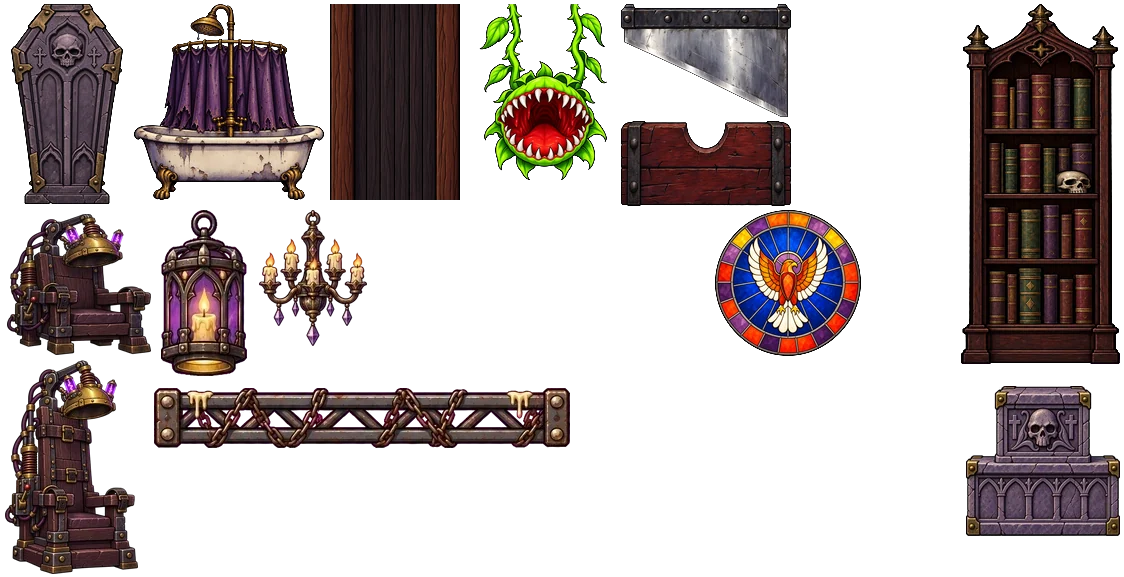
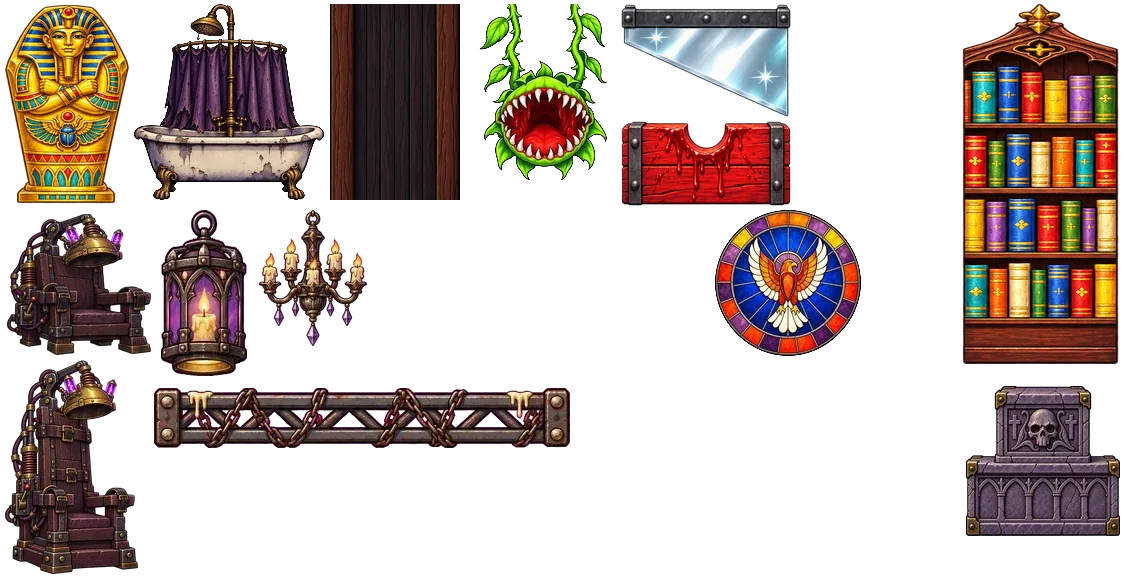
Release 0.13.8 with clearer Creepshow props

Changed region(s): [[0.8407, 0.0, 0.9964, 0.6551], [0.5294, 0.0, 0.7162, 0.3744], [0.0, 0.0, 0.1246, 0.3744]]

diff --git a/lib/features/games/ui/stage_runner_screen.dart b/lib/features/games/ui/stage_runner_screen.dart
@@ -1935,7 +1935,7 @@ class _StagePainter extends CustomPainter {
       case ObstacleKind.flat:
         _flat(canvas, a, rect);
       case ObstacleKind.border when a.ownScenery:
-        _guillotineTop(canvas, a, rect, (o.anchor - o.bottom) * s);
+        _guillotineTop(canvas, a, rect, (o.anchor - o.bottom) * s, s);
       case ObstacleKind.border:
         _velvetPiece(canvas, rect, s, a.border);
       case ObstacleKind.lamp:
@@ -2176,13 +2176,20 @@ class _StagePainter extends CustomPainter {
   /// fly loft and only as far as the back of the blade, so that the blade's
   /// slant shows; the uprights on past it over the [gap] below; and at the
   /// lower edge the blade, the same size at any height of the gap.
-  void _guillotineTop(Canvas canvas, RunnerArt a, Rect rect, double gap) {
+  void _guillotineTop(
+    Canvas canvas,
+    RunnerArt a,
+    Rect rect,
+    double gap,
+    double s,
+  ) {
     final width = rect.width * _guillotineWidth;
     final left = rect.center.dx - width / 2;
     final cell = RunnerSprite.guillotine;
     final blade = RunnerSprite.guillotineBlade;
     final height = width * blade.height / blade.width;
     final back = rect.bottom - height * .75;
+    const upright = RunnerSprite.guillotineUpright;
     if (back > rect.top) {
       _sprite(
         canvas,
@@ -2190,8 +2197,22 @@ class _StagePainter extends CustomPainter {
         cell,
         Rect.fromLTRB(left, rect.top, left + width, back),
       );
+      // The backdrop's border hangs above the blade, between the timber
+      // uprights. The blade is drawn last, over the fringe.
+      if (a.border != null) {
+        _velvetPiece(
+          canvas,
+          Rect.fromLTRB(
+            left + width * upright,
+            rect.top,
+            left + width * (1 - upright),
+            back,
+          ),
+          s,
+          a.border,
+        );
+      }
     }
-    const upright = RunnerSprite.guillotineUpright;
     for (final side in [0.0, 1 - upright]) {
       canvas.drawImageRect(
         a.imageOf(cell),

diff --git a/test/stage_runner_test.dart b/test/stage_runner_test.dart
@@ -1226,6 +1226,42 @@ void main() {
       expect(drawn.places[i].bottom, closeTo(floor * s, 1e-6));
     });
 
+    testWidgets('the coloured border stays above the guillotine blade', (
+      tester,
+    ) async {
+      final (own, _, set) = await arts(tester);
+      const lilac = Color(0xFFD9B8FF);
+      final dressed = own.dressed(
+        obstacles: set,
+        ownScenery: true,
+        border: lilac,
+      );
+      for (final center in [.4, .5, .6]) {
+        final parts = gapAt(center, .32);
+        final drawn = paint(dressed, set, parts);
+        final borders = drawn.rects
+            .where((r) => r.$2.toARGB32() == lilac.toARGB32())
+            .toList();
+        expect(borders, hasLength(1));
+        final border = borders.single.$1;
+        final blade = drawn
+            .places[drawn.cells.indexOf(RunnerSprite.guillotineBlade.rect)];
+        expect(border.top, parts.first.top * s);
+        expect(border.left, greaterThan(blade.left));
+        expect(border.right, lessThan(blade.right));
+        expect(border.bottom, lessThan(blade.bottom));
+        expect(border.bottom, lessThan(parts.last.top * s));
+      }
+      expect(
+        paint(
+          own,
+          set,
+          gapAt(.5, .32),
+        ).rects.any((r) => r.$2.toARGB32() == lilac.toARGB32()),
+        isFalse,
+      );
+    });
+
     test('the course marks its gaps and nothing else', () {
       final game = StageRunner(random: Random(7))..invincible = true;
       var gaps = 0;
@@ -3536,6 +3572,10 @@ class _DrawnCells implements Canvas {
 
   /// Where each of [cells] went.
   final places = <Rect>[];
+  final rects = <(Rect, Color)>[];
+
+  @override
+  void drawRect(Rect rect, Paint paint) => rects.add((rect, paint.color));
 
   @override
   void drawImageRect(ui.Image image, Rect src, Rect dst, Paint paint) {

diff --git a/lib/features/changelog/domain/changelog.dart b/lib/features/changelog/domain/changelog.dart
@@ -27,6 +27,14 @@ class ChangelogEntry {
 /// matches the app version.
 const changelog = [
   ChangelogEntry(
+    version: '0.13.8',
+    date: '4. November 2026',
+    items: [
+      'Auf der Creepshow-Bühne erkennst du die Hindernisse besser: Die Guillotine glänzt, der Hackblock ist blutrot und der Stoff darüber helllila.',
+      'Das Bücherregal hat viele bunte Buchrücken, der Sarkophag ist golden und ägyptisch gestaltet.',
+    ],
+  ),
+  ChangelogEntry(
     version: '0.13.7',
     date: '2. November 2026',
     items: [

diff --git a/lib/core/app_version.dart b/lib/core/app_version.dart
@@ -1,5 +1,5 @@
 /// Version name from pubspec.yaml; a test keeps both in sync.
-const appVersion = '0.13.7';
+const appVersion = '0.13.8';
 
 /// Store build number, passed by the Android release build
 /// (`--dart-define=APP_BUILD=…`); empty for web and local builds.

diff --git a/docs/releases/0.13.8.md b/docs/releases/0.13.8.md
@@ -1,0 +1,7 @@
+# 0.13.8
+
+- Creepshow: Der Hackblock ist kräftig rot mit Blutspuren, die Guillotinenklinge hat helle Metallreflexe. Zwischen den Pfosten hängt über der Klinge eine helllila Soffitte.
+- Das Bücherregal hat bunte Buchrücken. Der aufrechte Sarkophag ist golden und ägyptisch gestaltet.
+- Atlaspositionen, Kollisionsflächen und Spielphysik bleiben unverändert. Die Regalböden passen weiterhin zu den wiederholbaren Regalabschnitten.
+
+Android wird im geschlossenen Google-Play-Test `alpha` eingereicht. Der tatsächliche Prüf- oder Veröffentlichungsstatus wird zurückgelesen.
